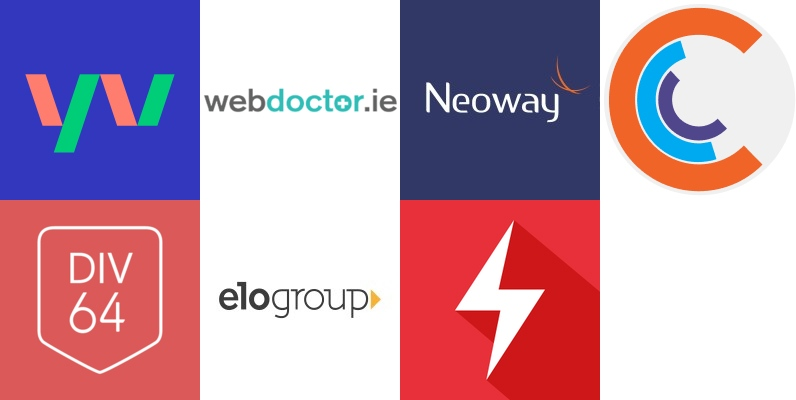
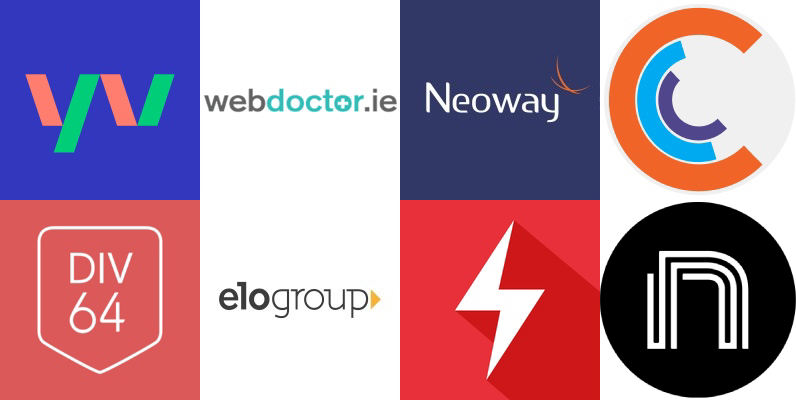
feat: add nexhealth info (#104)

diff --git a/src/containers/work/Work.module.css b/src/containers/work/Work.module.css
@@ -110,7 +110,7 @@
 }
 
 /* ----- List Card: content ----- */
-.logo { 
+.logo {
   width: 50px;
   height: 50px;
   margin-right: 0.8rem;
@@ -123,6 +123,7 @@
   box-shadow: var(--box-shadow) var(--box-shadow-color);
 }
 
+.logo-nexhealth { background-position: -150px -50px; }
 .logo-ciklum { background-position: -150px 0; }
 .logo-payvision { background-position: 0 0; }
 .logo-webdoctor { background-position: -50px 0; }
@@ -145,7 +146,7 @@
   .list-item-card:hover::before {
     background-color: var(--color-primary);
   }
-  
+
   .list-item-card:hover .title {
     color: var(--color-primary);
   }
@@ -194,8 +195,8 @@
 
 
 @media (min-width: breakpoint-xx) {
-  .content { 
-    flex-direction: row; 
+  .content {
+    flex-direction: row;
     margin: 4rem 0;
   }
 
@@ -224,21 +225,21 @@
     margin-top: 1.2rem;
   }
 
-  .list-item-left { 
+  .list-item-left {
     grid-template-columns: auto auto;
-    align-self: flex-end; 
+    align-self: flex-end;
     padding-right: 0.2rem;
   }
 
-  .list-item-card { 
-    width: 272px; 
+  .list-item-card {
+    width: 272px;
     margin: 0;
   }
 
   .list-item-card:hover::after {
     background-color: var(--color-primary);
   }
-  
+
   .list-item-card::after {
     content: '';
     position: absolute;
@@ -251,8 +252,8 @@
     transform: translateY(-50%);
   }
 
-  .list-item-left .list-item-card::after { 
-    left: -56px; 
+  .list-item-left .list-item-card::after {
+    left: -56px;
     width: 56px;
   }
 
@@ -265,8 +266,8 @@
 
   .list-item-left .list-item-card::before { left: -67px; }
 
-  .list-item-left .list-item-date { 
-    order: 0; 
+  .list-item-left .list-item-date {
+    order: 0;
     padding-right: 92px;
     padding-left: 0;
   }

diff --git a/src/containers/work/WorkData.ts b/src/containers/work/WorkData.ts
@@ -9,32 +9,32 @@ export interface WorkModel {
 
 export const WorkData = (t: any): WorkModel[] => [
   {
-    title: 'Webdoctor',
+    title: 'NexHealth',
     position: t('position.senior-front-end-developer'),
-    year: '2021',
     country: t('countries.brazil'),
-    url: 'https://www.webdoctor.ie/'
+    year: '2021',
+    url: 'https://www.nexhealth.com/',
+    status: 'current'
   },
   {
     title: 'Ciklum',
     position: t('position.senior-front-end-developer'),
-    url: 'https://www.ciklum.com/',
     country: t('countries.spain'),
     year: '2020',
-    status: 'current'
+    url: 'https://www.ciklum.com/'
   },
   {
     title: 'Payvision',
     position: t('position.software-developer'),
-    url: 'https://www.payvision.com',
     country: t('countries.spain'),
-    year: '2019'
+    year: '2019',
+    url: 'https://www.payvision.com'
   },
   {
     title: 'Webdoctor',
     position: t('position.software-developer'),
-    year: '2017',
     country: t('countries.ireland'),
+    year: '2017',
     url: 'https://www.webdoctor.ie/'
   },
   {
